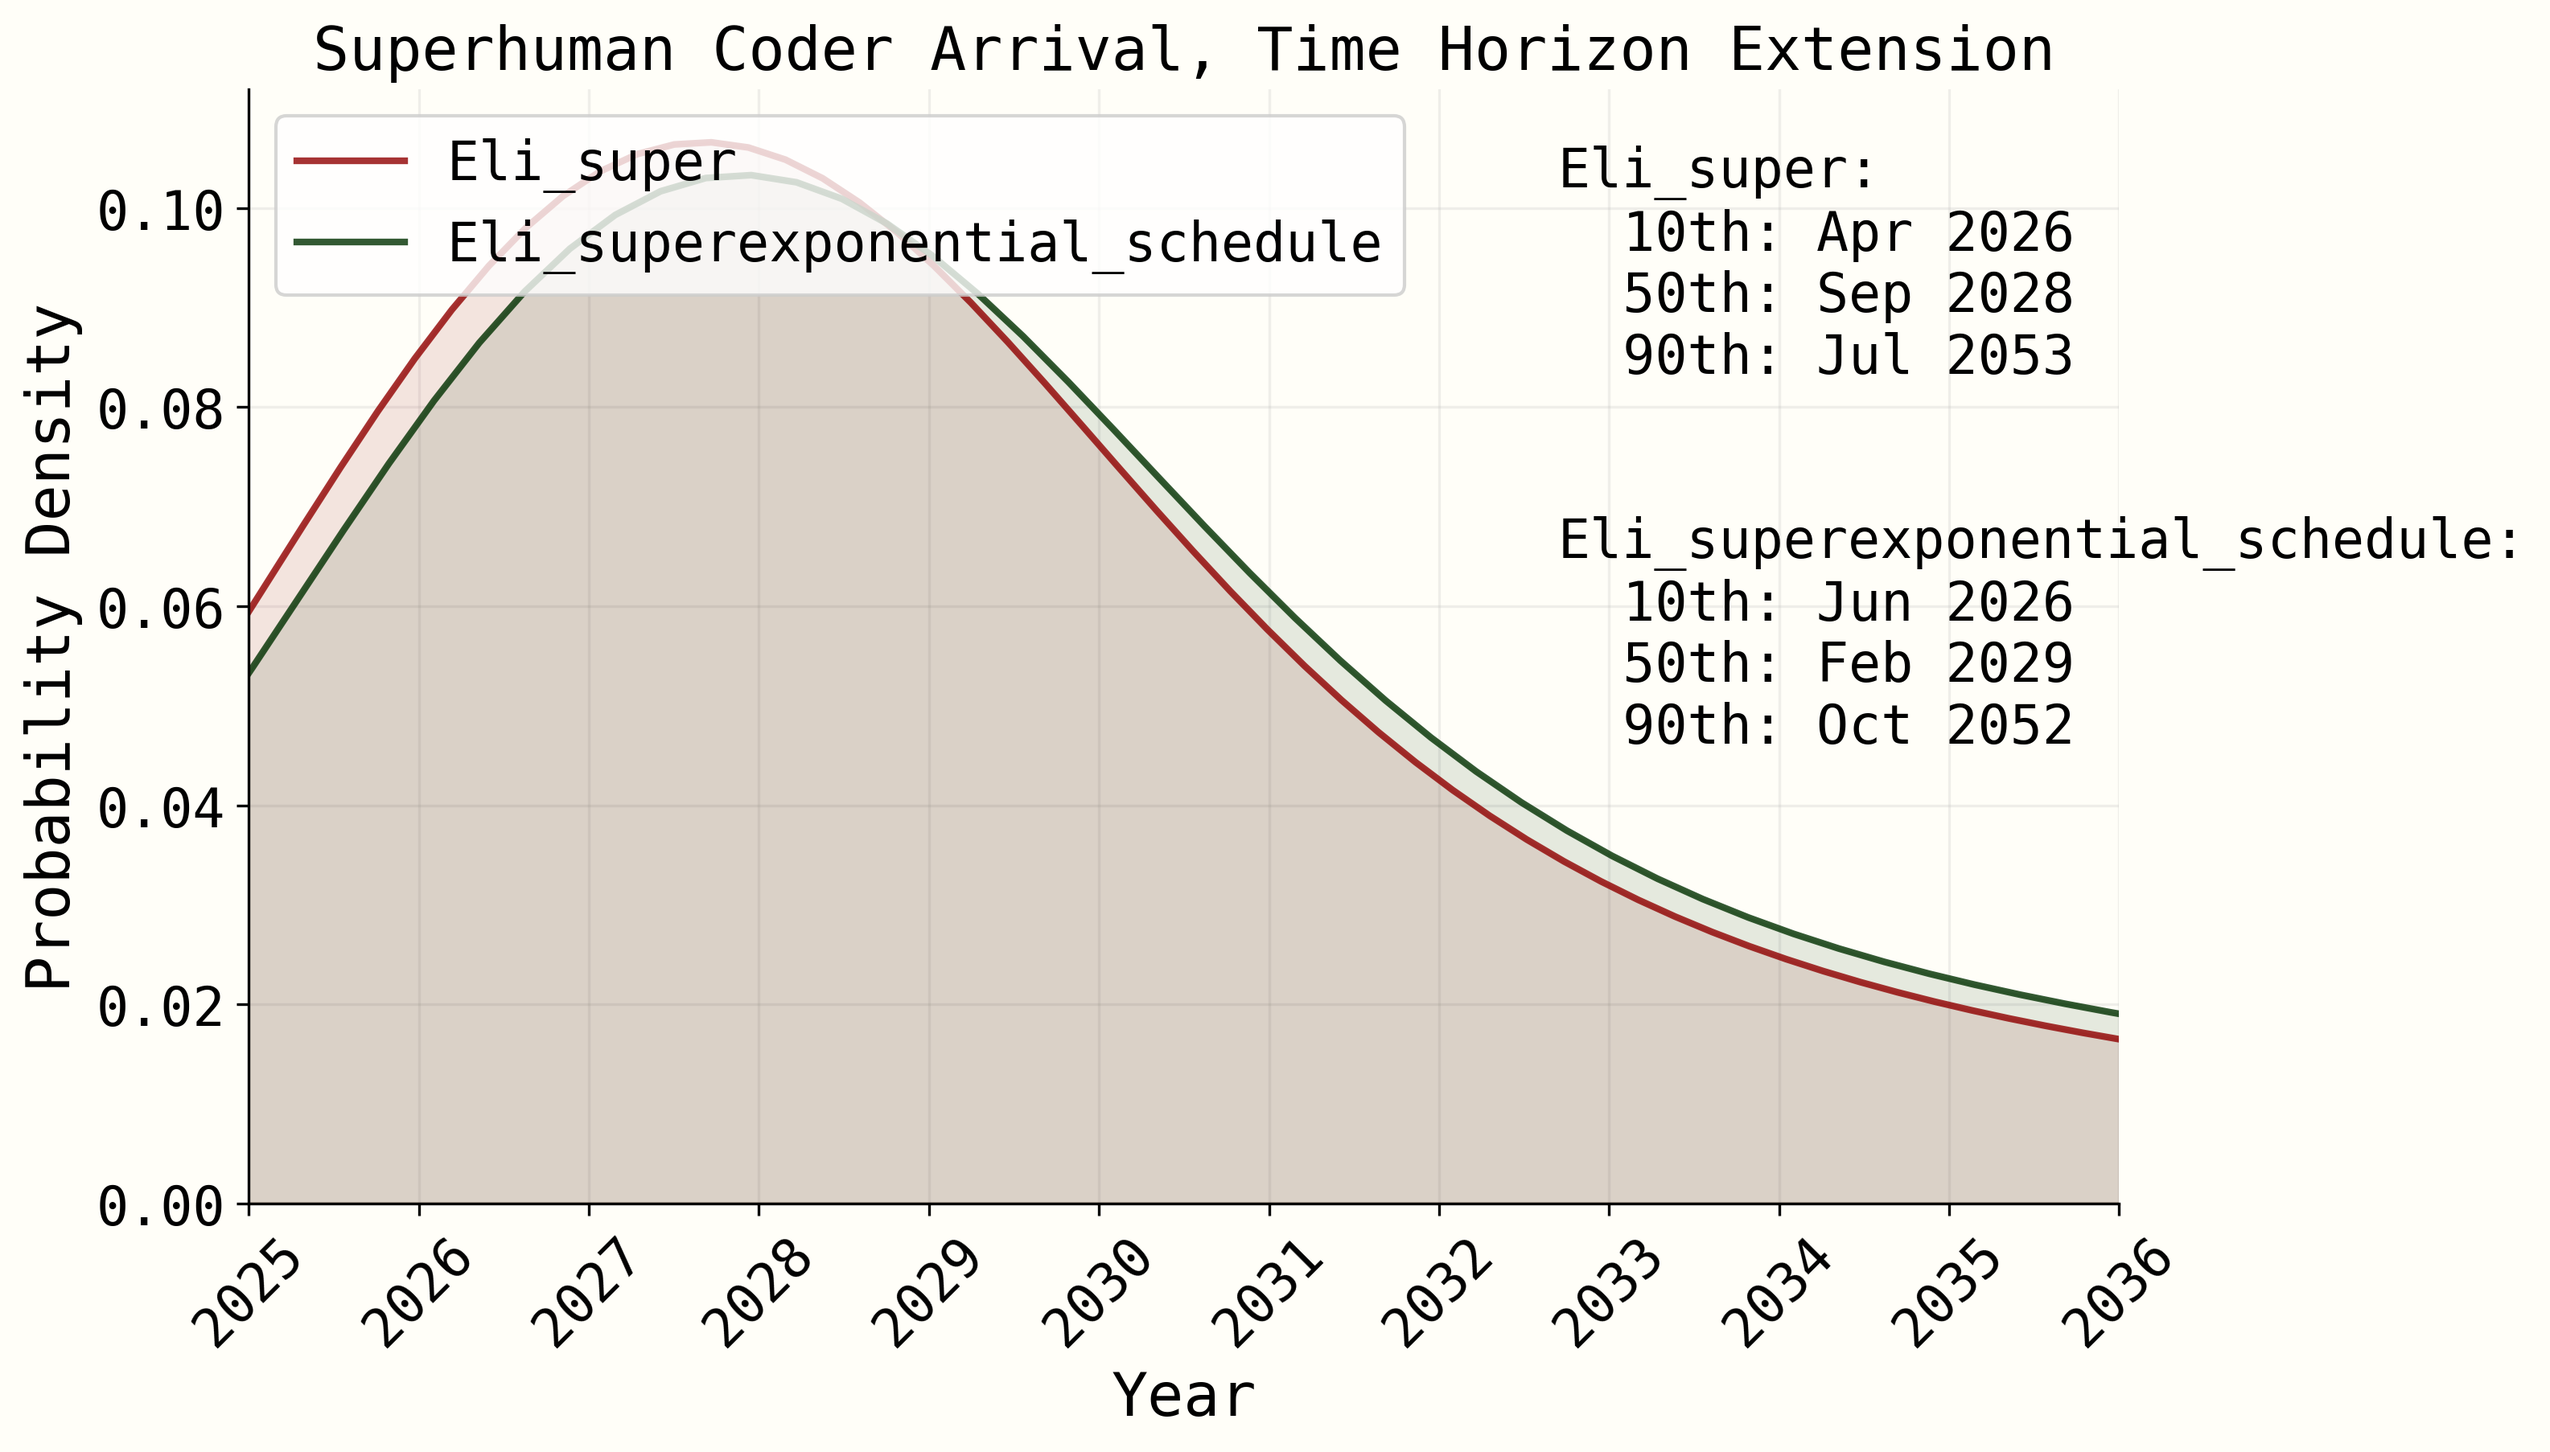
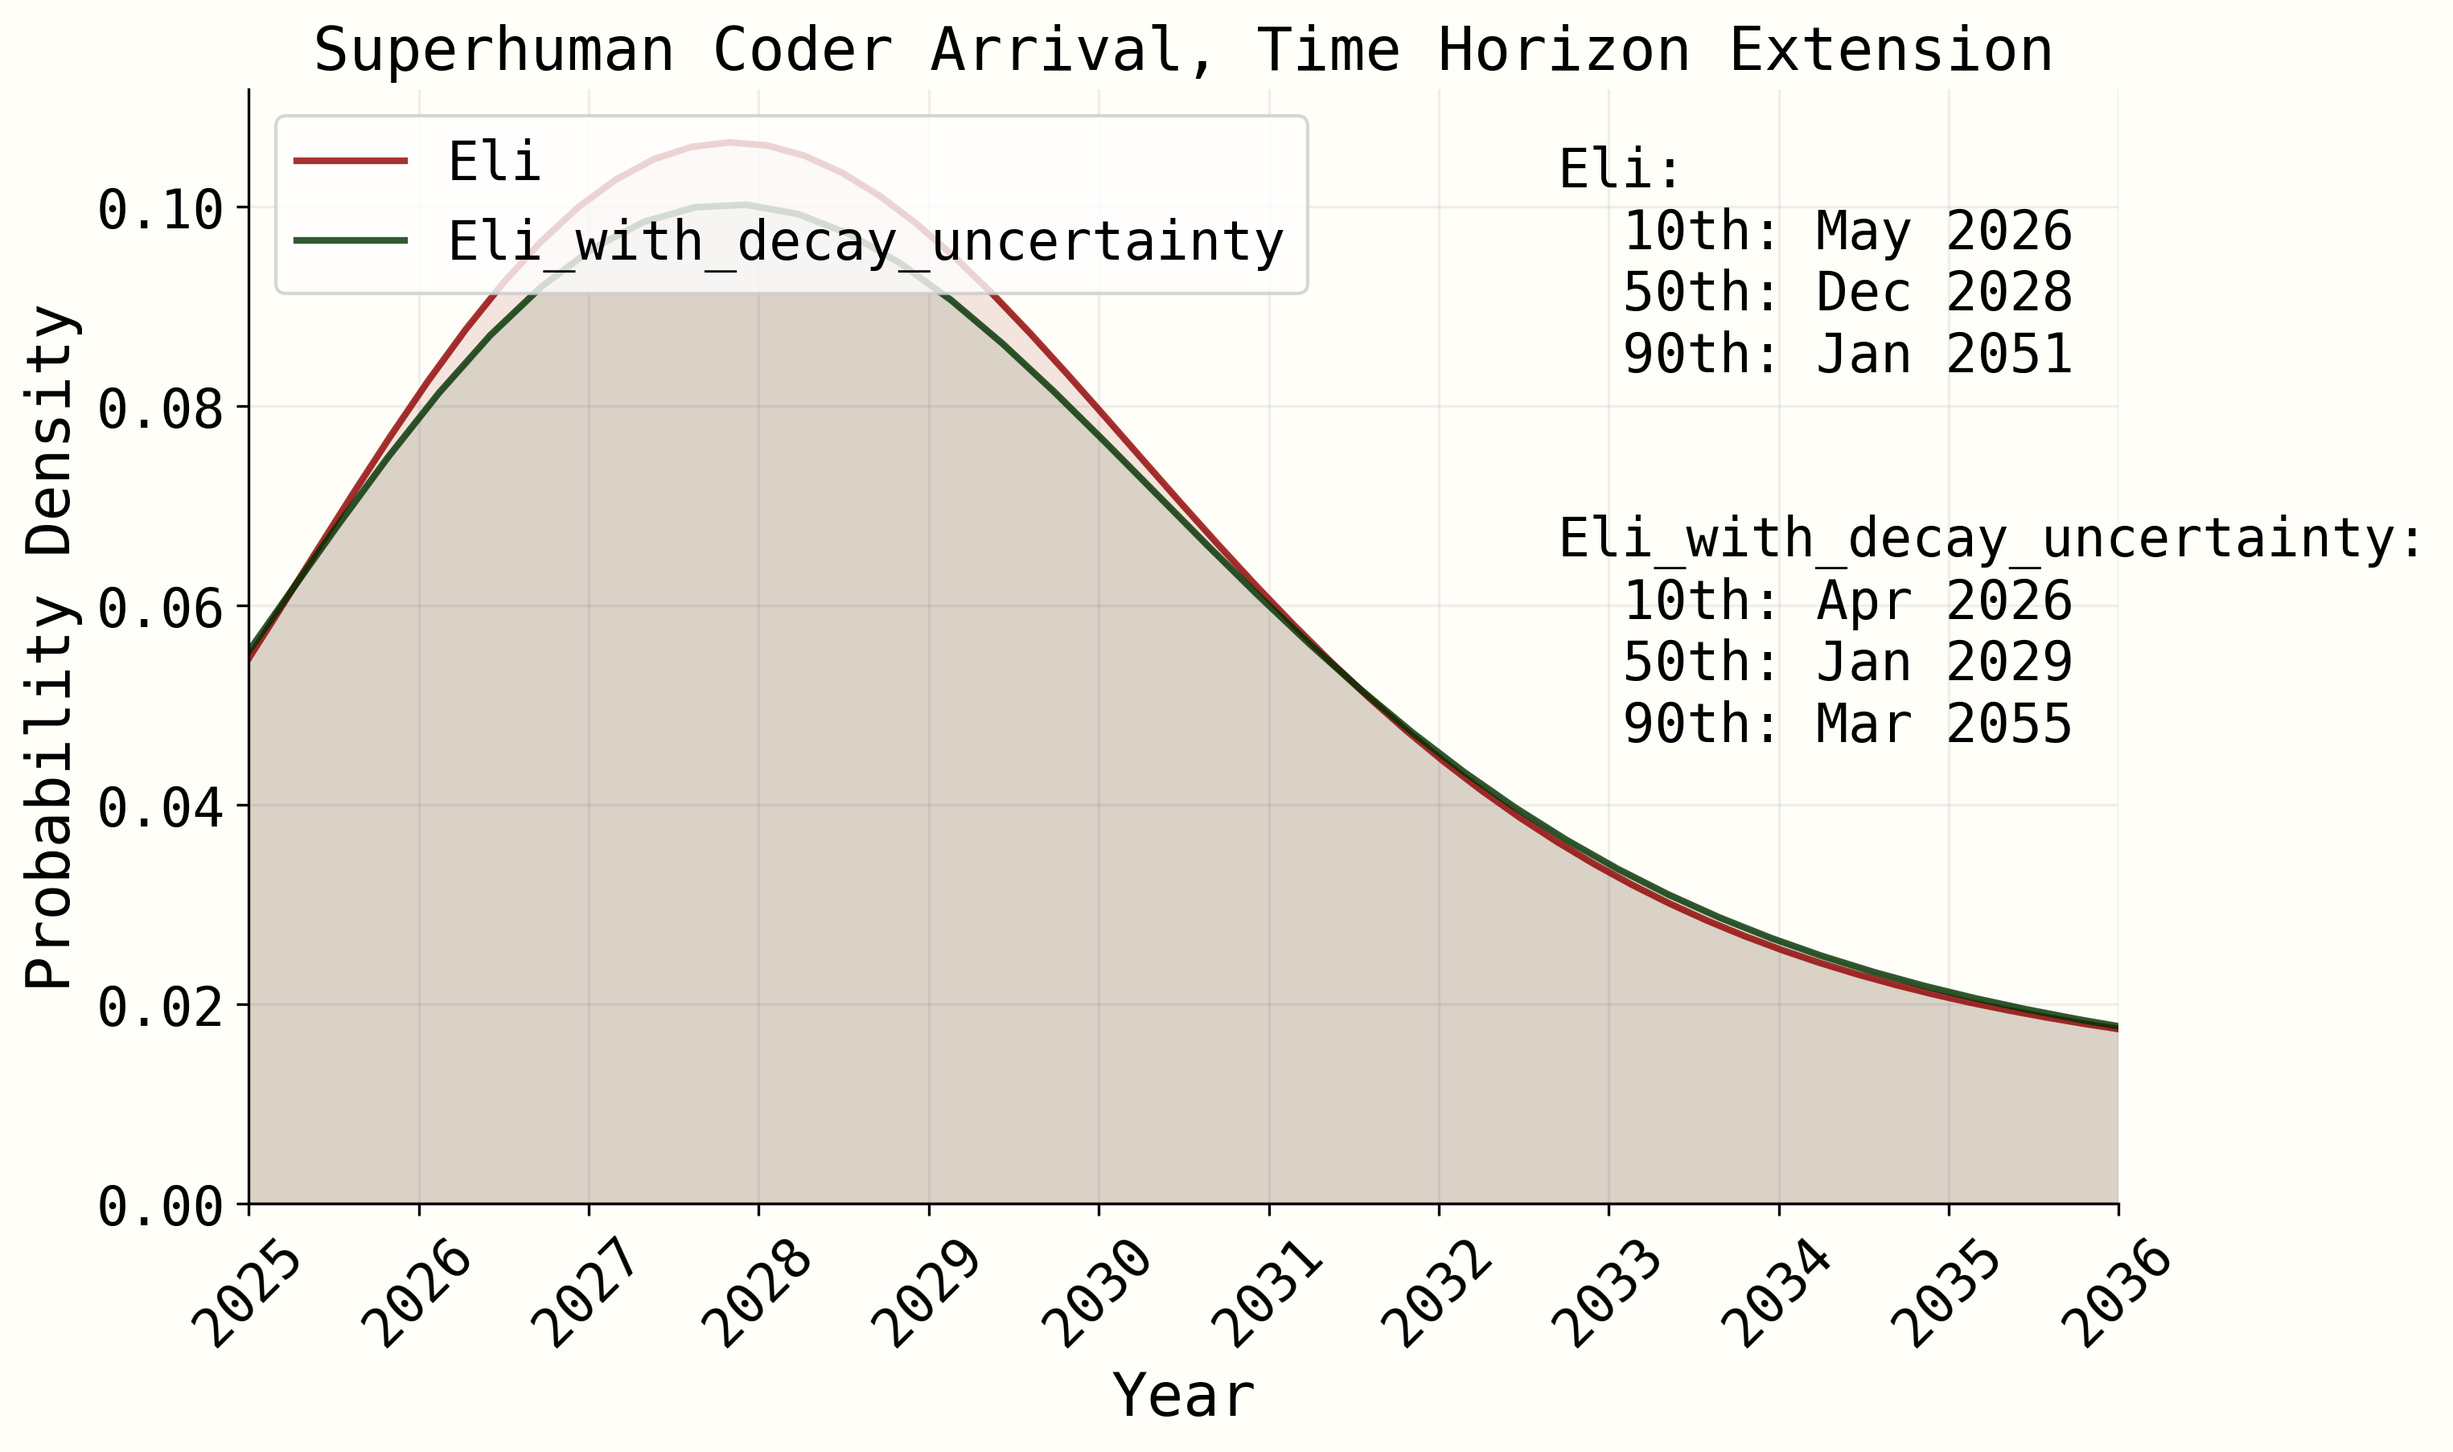
add uncertainty regarding superexponential decay rate

diff --git a/timelines/forecasting_timelines.py b/timelines/forecasting_timelines.py
@@ -155,8 +155,14 @@ def get_distribution_samples(config: dict, n_sims: int, correlation: float = 0.7
                     samples["superexponential_start_time"][i] = horizon
                     break
     
-    # Add growth/decay parameters
-    samples["se_doubling_decay_fraction"] = config["distributions"]["se_doubling_decay_fraction"]
+    # Sample se_doubling_decay_fraction from lognormal distribution
+    dist = get_lognormal_from_80_ci(
+        config["distributions"]["se_doubling_decay_fraction_ci"][0],
+        config["distributions"]["se_doubling_decay_fraction_ci"][1]
+    )
+    samples["se_doubling_decay_fraction"] = np.clip(dist.rvs(n_sims), 0, 1)  # Clip to ensure decay is between 0 and 1
+    
+    # Add subexponential growth parameter
     samples["sub_doubling_growth_fraction"] = config["distributions"]["sub_doubling_growth_fraction"]
     
     # Algorithmic slowdowns with probability of being zero
@@ -234,7 +240,7 @@ def calculate_gaps(samples: dict) -> tuple[np.ndarray, np.ndarray]:
                 
                 # Calculate time for superexponential phase
                 if doublings_after > 0:
-                    decay = samples["se_doubling_decay_fraction"]
+                    decay = samples["se_doubling_decay_fraction"][i]  # Get decay for this specific simulation
                     ratio = 1 - decay
                     # Use geometric series sum formula for remaining doublings
                     g_h[i] += first_doubling_time * (1 - ratio**doublings_after) / (1 - ratio)

diff --git a/timelines/simple_forecasting_timelines.py b/timelines/simple_forecasting_timelines.py
@@ -128,8 +128,14 @@ def get_distribution_samples(config: dict, n_sims: int, correlation: float = 0.7
                     samples["superexponential_start_time"][i] = horizon
                     break
     
-    # Add growth/decay parameters
-    samples["se_doubling_decay_fraction"] = config["distributions"]["se_doubling_decay_fraction"]
+    # Sample se_doubling_decay_fraction from lognormal distribution
+    dist = get_lognormal_from_80_ci(
+        config["distributions"]["se_doubling_decay_fraction_ci"][0],
+        config["distributions"]["se_doubling_decay_fraction_ci"][1]
+    )
+    samples["se_doubling_decay_fraction"] = np.clip(dist.rvs(n_sims), 0, 1)  # Clip to ensure decay is between 0 and 1
+    
+    # Add subexponential growth parameter
     samples["sub_doubling_growth_fraction"] = config["distributions"]["sub_doubling_growth_fraction"]
     
     return samples
@@ -183,7 +189,7 @@ def calculate_base_time(samples: dict, current_horizon: float) -> np.ndarray:
                 n_after = n - n_before
                 if n_after > 0:
                     # Calculate time for superexponential phase
-                    decay = samples["se_doubling_decay_fraction"]
+                    decay = samples["se_doubling_decay_fraction"][i]  # Get decay for this specific simulation
                     ratio = 1 - decay
                     time_after = doubling_time * (1 - ratio**n_after) / (1 - ratio)
                     total_time[i] = time_before + time_after
